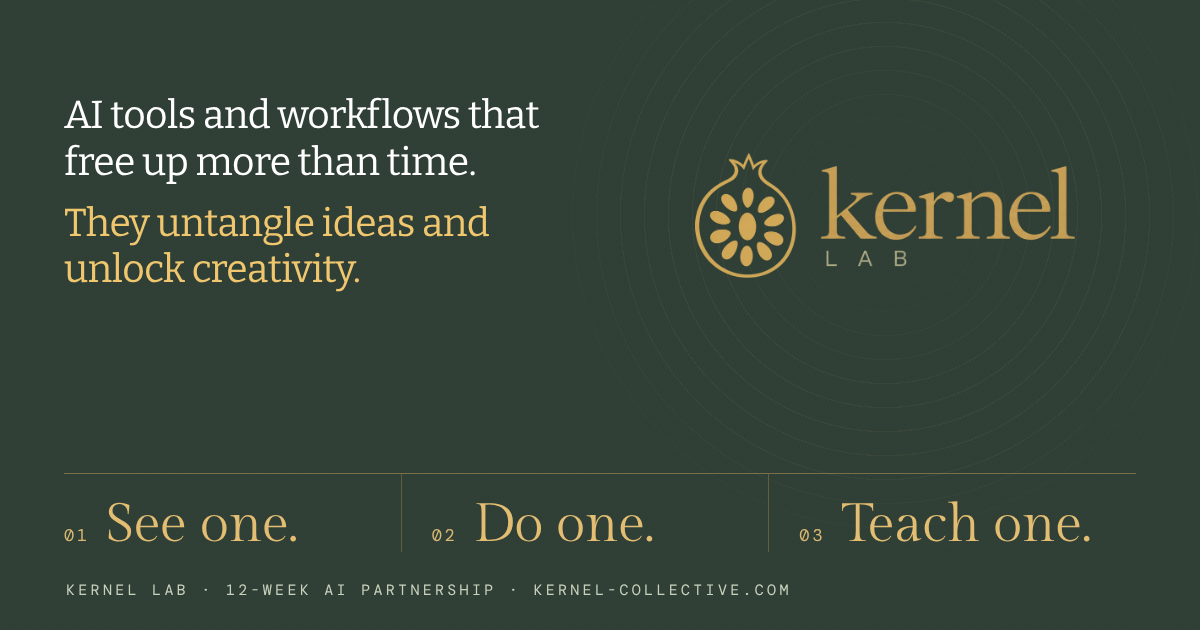
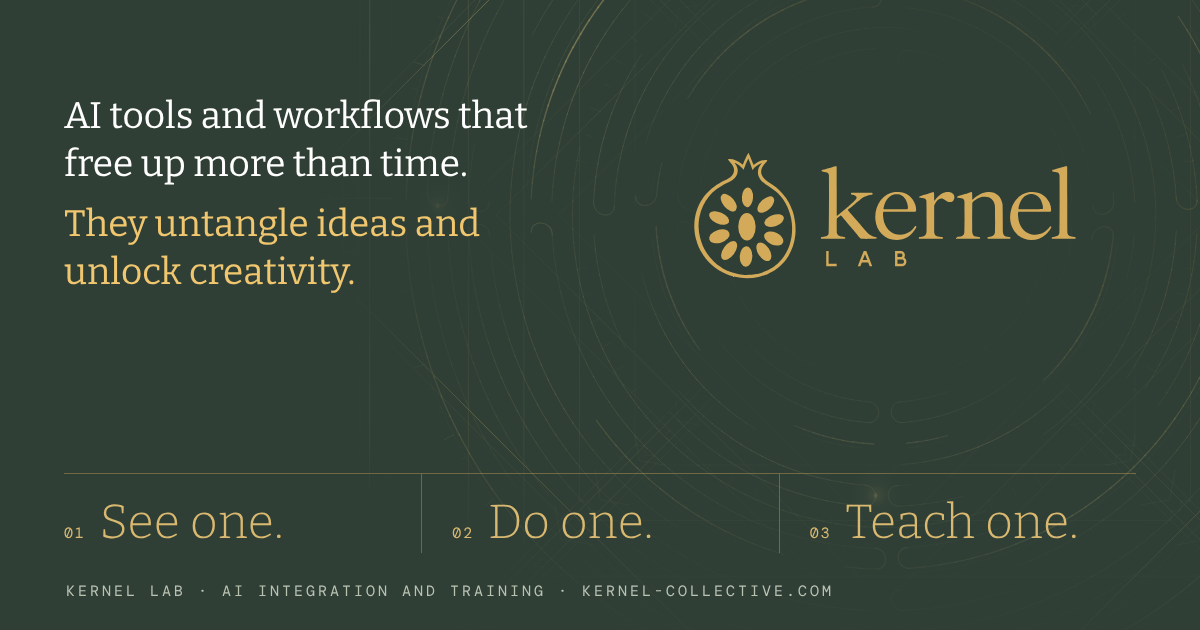
Lab: guardrail label alignment; new share image
- Guardrail label and text now sit side by side, text wrapping in its own
  column, label centred on the first line (was riding above it)
- og-image-lab.png rebuilt: footer reads "AI Integration and Training";
  a lighter version of the labyrinth hero background sits behind it.
  Share links carry ?v=2 so platforms fetch the new image

Claude-Session: https://claude.ai/code/session_01WrWveqANsxzYa8pKUzy2Bd

diff --git a/deploy/Lab.html b/deploy/Lab.html
@@ -12,7 +12,7 @@
 <meta property="og:title" content="Kernel Lab — Kernel Collective">
 <meta property="og:description" content="Kernel Lab is a 12-week partnership that builds AI tools and workflows alongside Minneapolis and Twin Cities founders, then hands you the wheel. See one. Do one. Teach one.">
 <meta property="og:url" content="https://kernel-collective.com/Lab.html">
-<meta property="og:image" content="https://kernel-collective.com/og-image-lab.png">
+<meta property="og:image" content="https://kernel-collective.com/og-image-lab.png?v=2">
 <meta property="og:image:width" content="1200">
 <meta property="og:image:height" content="630">
 <meta property="og:image:alt" content="Kernel Lab: AI tools and workflows that free up more than time. See one. Do one. Teach one.">
@@ -20,7 +20,7 @@
 <meta name="twitter:title" content="Kernel Lab — Kernel Collective">
 <meta name="twitter:description" content="Kernel Lab is a 12-week partnership that builds AI tools and workflows alongside Minneapolis and Twin Cities founders, then hands you the wheel. See one. Do one. Teach one.">
 <meta name="twitter:image:alt" content="Kernel Lab: See one. Do one. Teach one.">
-<meta name="twitter:image" content="https://kernel-collective.com/og-image-lab.png">
+<meta name="twitter:image" content="https://kernel-collective.com/og-image-lab.png?v=2">
 <link rel="preconnect" href="https://fonts.googleapis.com">
 <link rel="preconnect" href="https://fonts.gstatic.com" crossorigin>
 <link href="https://fonts.googleapis.com/css2?family=Bitter:ital,wght@0,300;0,400;0,500;1,300;1,400&family=DM+Sans:wght@300;400;500&family=DM+Mono:wght@400&display=swap" rel="stylesheet">

diff --git a/deploy/lab.css b/deploy/lab.css
@@ -745,3 +745,6 @@
   .pr-d[open] summary::after{content:"\2212"}
   .pr .pr-guard{margin-top:6px}
 }
+/* guardrail: label and text side by side, text wraps in its own column */
+.pr .pr-guard{display:flex;align-items:flex-start;gap:10px}
+.pr-guard-label{display:flex;align-items:center;flex:none;margin:0;padding-top:5px;line-height:1}
